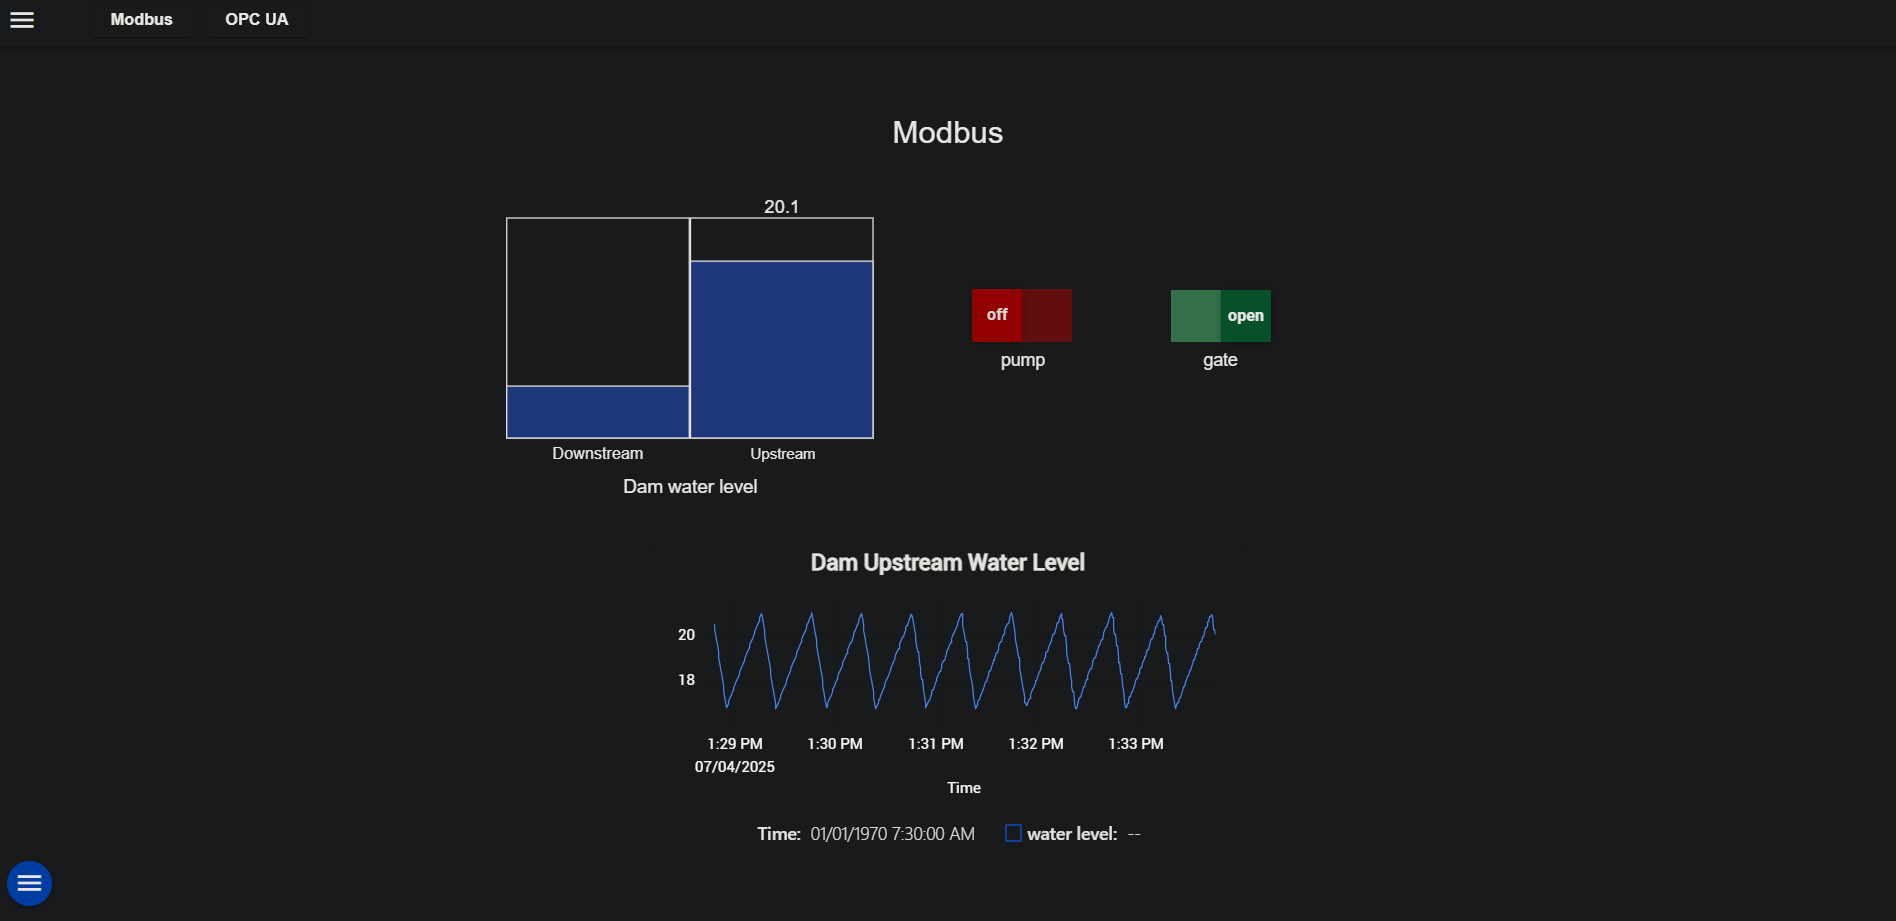
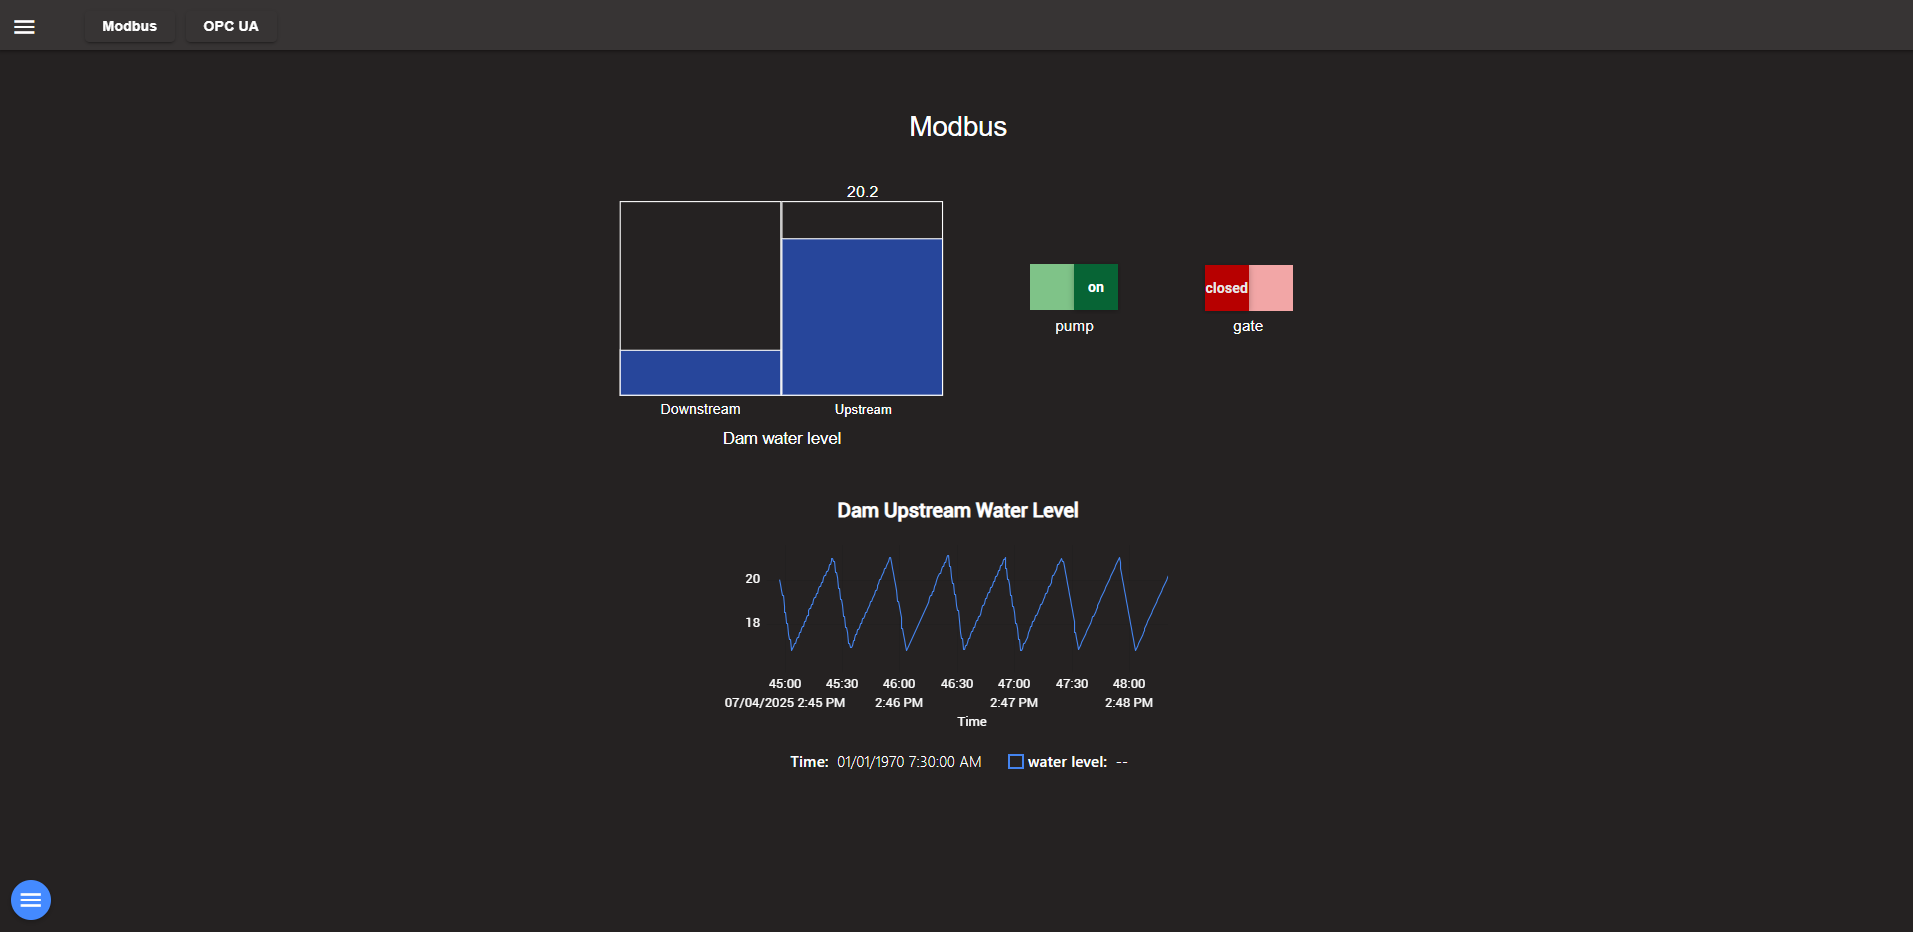
edited documentation, added fuxa prj settings to scada

diff --git a/README.md b/README.md
@@ -52,36 +52,31 @@ There are two [pfsense](https://www.pfsense.org/) firewalls. The first firewall 
 
 The hardware counterpart to the simulation VM.
 
-## Set up
+## Installation
 
 ### VM settings
 
 1. Set up 3 [Host-only Ethernet adapters](https://www.virtualbox.org/manual/ch06.html#network_hostonly)
-- One in the 192.168.60.0/24 subnet, with IP address 192.168.60.1
-- One in the 192.168.65.0/24 subnet, with IP address 192.168.65.1
-- One in the 192.168.75.0/24 subnet, with IP address 192.168.75.2
-- Whether DHCP is enabled or disabled is largely unimportant
+    - One in the 192.168.60.0/24 subnet, with IP address 192.168.60.1
+    - One in the 192.168.65.0/24 subnet, with IP address 192.168.65.1
+    - One in the 192.168.75.0/24 subnet, with IP address 192.168.75.1
+    - Whether DHCP is enabled or disabled is largely unimportant
+
+_In VirtualBox, go to Tools > Networking. This is how it should look like. The names of your adapters are likely different._
 
 ![](img/vm-settings1.png)
 
-_In VirtualBox, go to Tools > Networking_
-
-![](img/vm_settings2.png)
-
-_How it should look like. The names of your adapters are likely different._
-
-
 2. Configure the network settings of each VM, selecting the correct Host-only Ethernet adapter.
-- <ins>SCADA Adapter 1</ins>: 192.168.60.0/24
-- <ins>Gateway Adapter 1</ins>: 192.168.65.0/24
-- <ins>Simulation Adapter 1</ins>: 192.168.75.0/24
-- <ins>Firewall 1 Adapter 1</ins>: 192.168.60.0/24
-- <ins>Firewall 1 Adapter 2</ins>: 192.168.65.0/24
-- <ins>Firewall 1 Adapter 3</ins>: NAT
-- <ins>Firewall 2 Adapter 1</ins>: 192.168.65.0/24
-- <ins>Firewall 2 Adapter 1</ins>: 192.168.75.0/24 (if using simulator) OR bridged adapter (select your ethernet port, if using the in person setup)
-- <ins>Attacker Adapter 1</ins>: 192.168.60.0/24
-- <ins>Attacker Adapter 2</ins>: NAT
+    - <ins>SCADA Adapter 1</ins>: 192.168.60.0/24
+    - <ins>Gateway Adapter 1</ins>: 192.168.65.0/24
+    - <ins>Simulation Adapter 1</ins>: 192.168.75.0/24
+    - <ins>Firewall 1 Adapter 1</ins>: 192.168.60.0/24
+    - <ins>Firewall 1 Adapter 2</ins>: 192.168.65.0/24
+    - <ins>Firewall 1 Adapter 3</ins>: NAT
+    - <ins>Firewall 2 Adapter 1</ins>: 192.168.65.0/24
+    - <ins>Firewall 2 Adapter 1</ins>: 192.168.75.0/24 (if using simulator) OR bridged adapter (select your ethernet port, if using the in person setup)
+    - <ins>Attacker Adapter 1</ins>: 192.168.60.0/24
+    - <ins>Attacker Adapter 2</ins>: NAT
 
 
 VM Credentials:

diff --git a/gateway/README.md b/gateway/README.md
@@ -1,8 +1,8 @@
-# Gateway
+# Gateway VM
 
 The VM provided uses [Ubuntu Server 24.04.2](https://ubuntu.com/download/server).
 
-We will be using pymodbus 4.0.0 and asyncua 1.1.6. To prevent issues, we will be using the specific pymodbus commit used while developing this lab.
+The VM runs [`gateway.py`](gateway.py). We will be using pymodbus 4.0.0 and asyncua 1.1.6. To prevent issues, we will be using the specific pymodbus commit used while developing this lab.
 
 ## Installation:
 

diff --git a/scada/README.md b/scada/README.md
@@ -1,4 +1,4 @@
-# SCADA setup
+# SCADA VM
 
 The VM provided uses [Ubuntu Server 24.04.2](https://ubuntu.com/download/server).
 
@@ -55,4 +55,4 @@ sudo cp 99_config.yaml /etc/netplan/
 sudo netplan apply
 ```
 
-5. Go to http://localhost:1881/ and ensure you can access FUXA
+5. Go to http://localhost:1881/editor and ensure you can access FUXA. Then, click `Open Project` and import [`scada-dam.json`](scada-dam.json).

diff --git a/simulation/README.md b/simulation/README.md
@@ -1,8 +1,8 @@
-# Simulation
+# Simulation VM
 
 The VM provided uses [Ubuntu Server 24.04.2](https://ubuntu.com/download/server).
 
-We will run simulation.py.
+The VM runs [`simulation.py`](simulation.py).
 
 ## Installation
 

diff --git a/attacker/README.md b/attacker/README.md
@@ -1,4 +1,4 @@
-# Attacker VM Set Up
+# Attacker VM
 
 We are using a Kali Linux VM.
 

diff --git a/firewall/README.md b/firewall/README.md
@@ -1,4 +1,4 @@
-# Firewall
+# Firewall VM
 
 ## Installation
 
